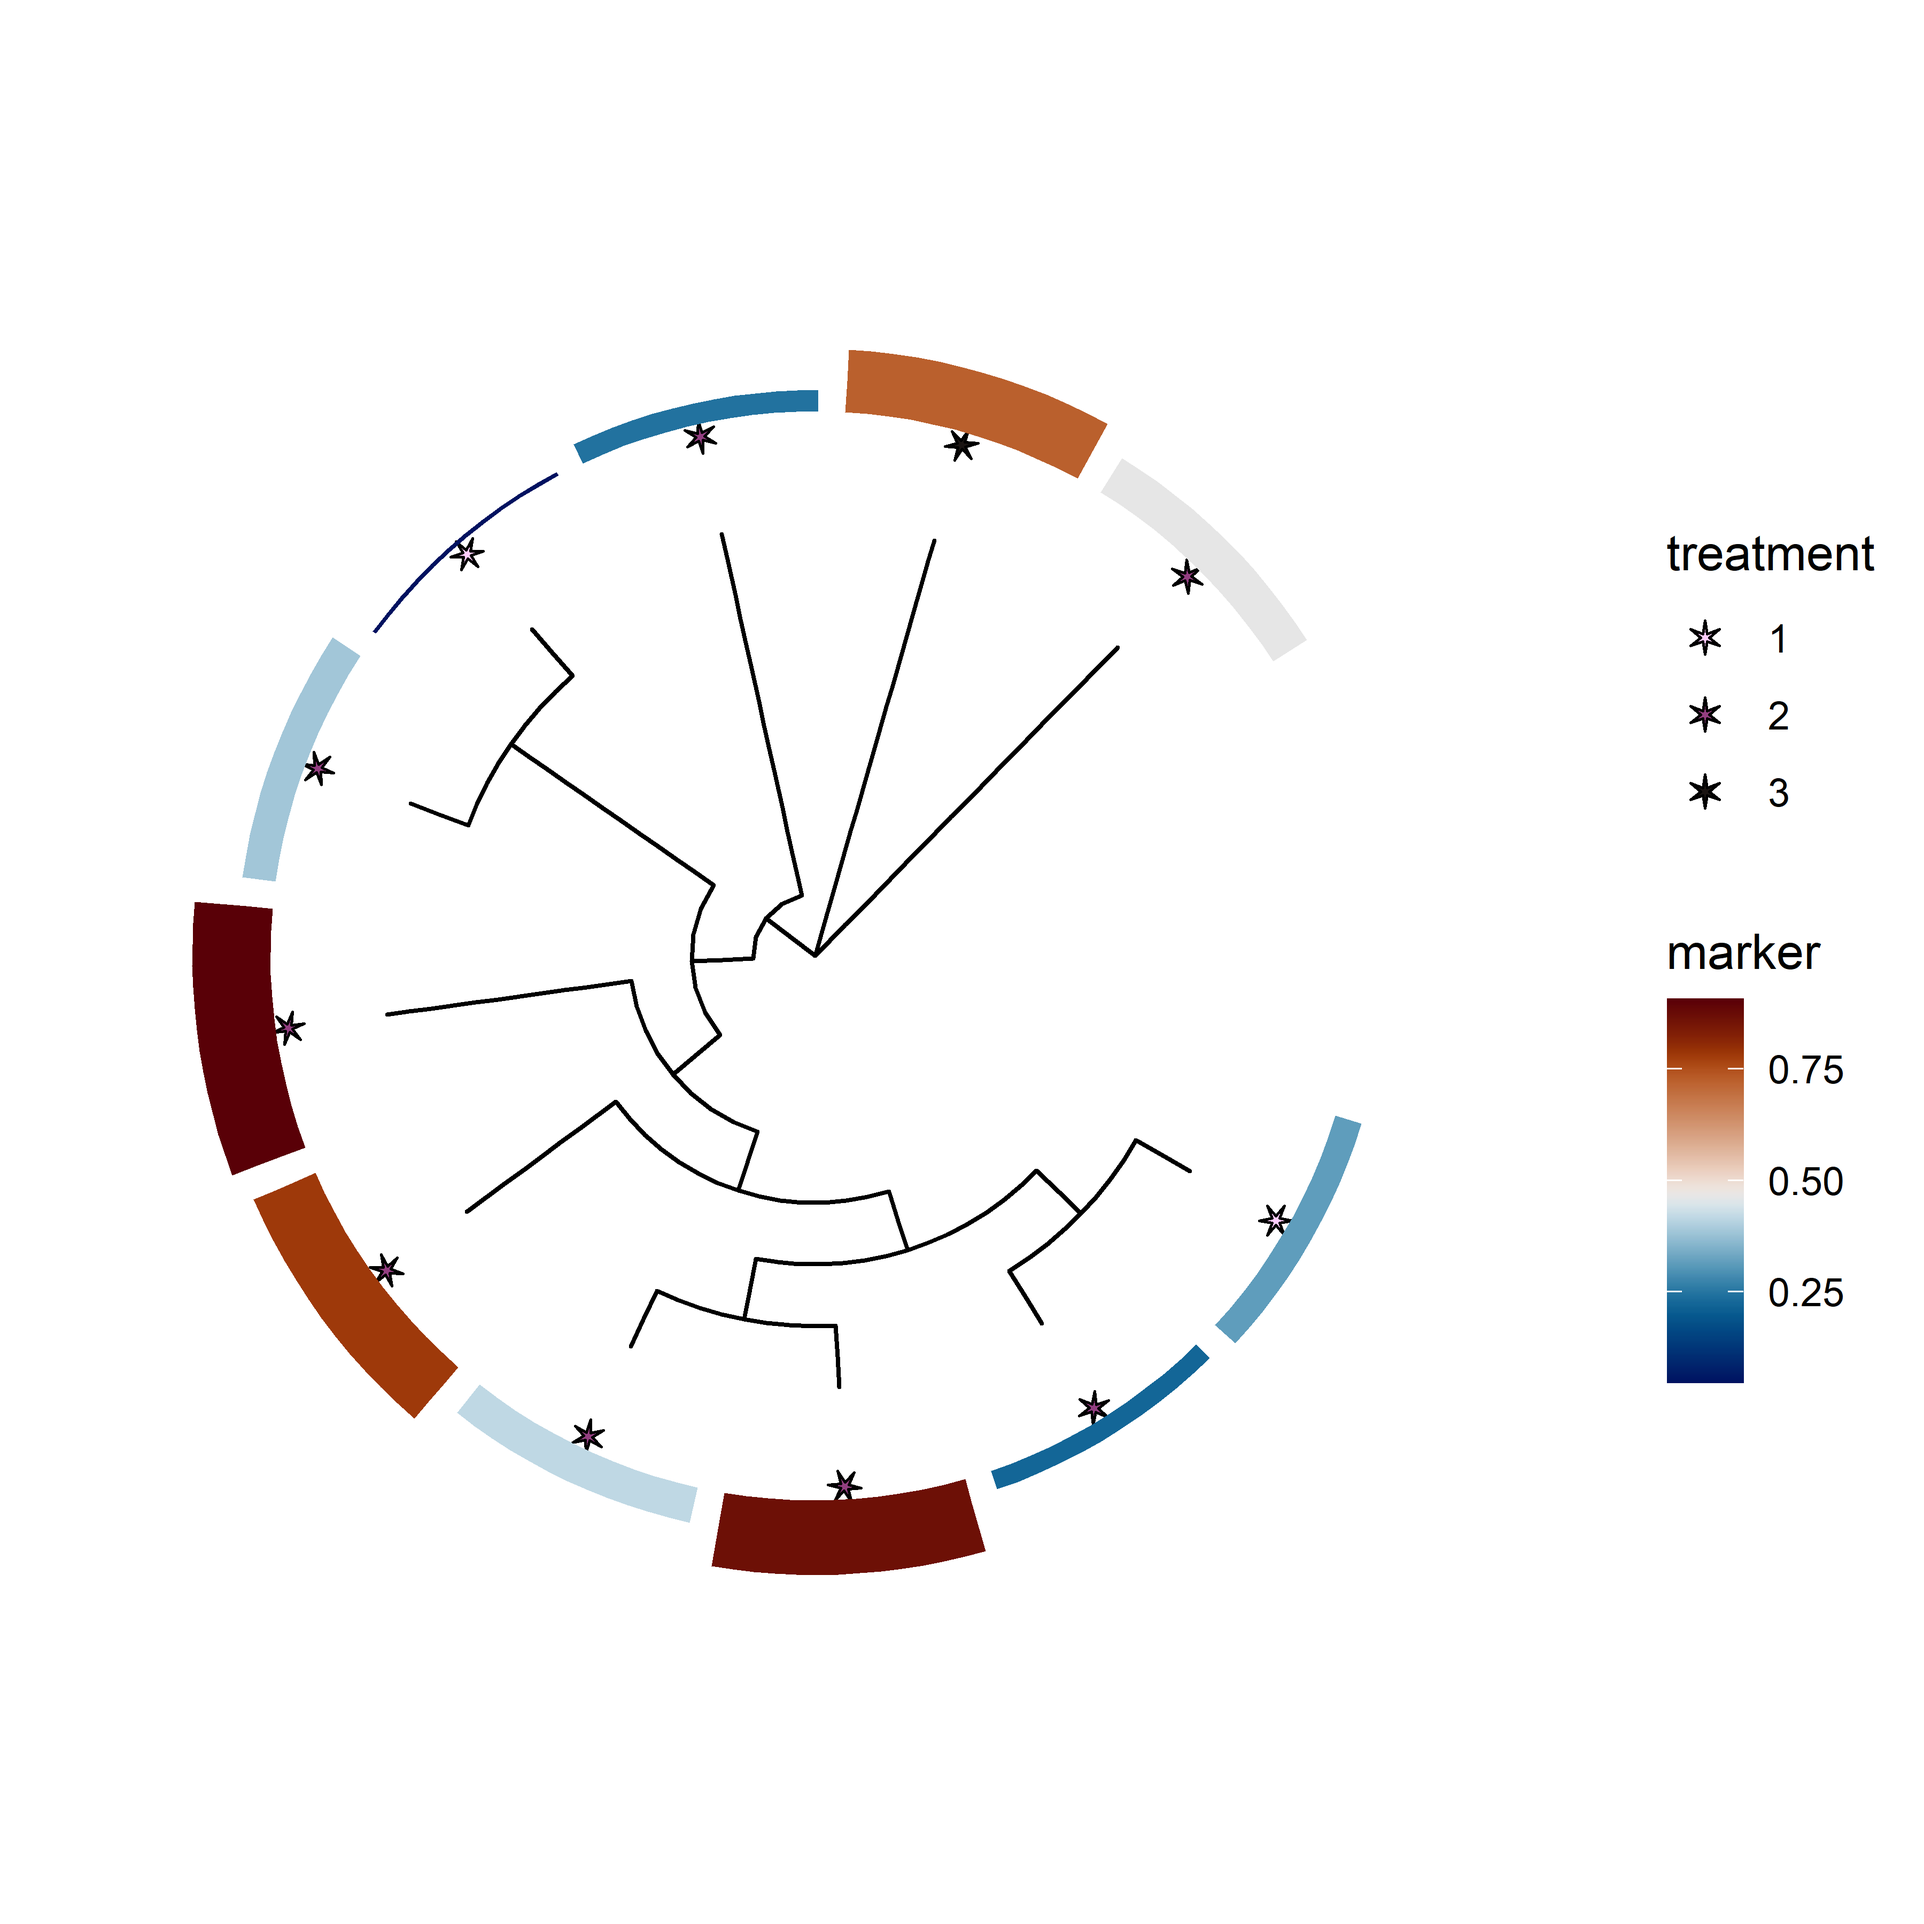
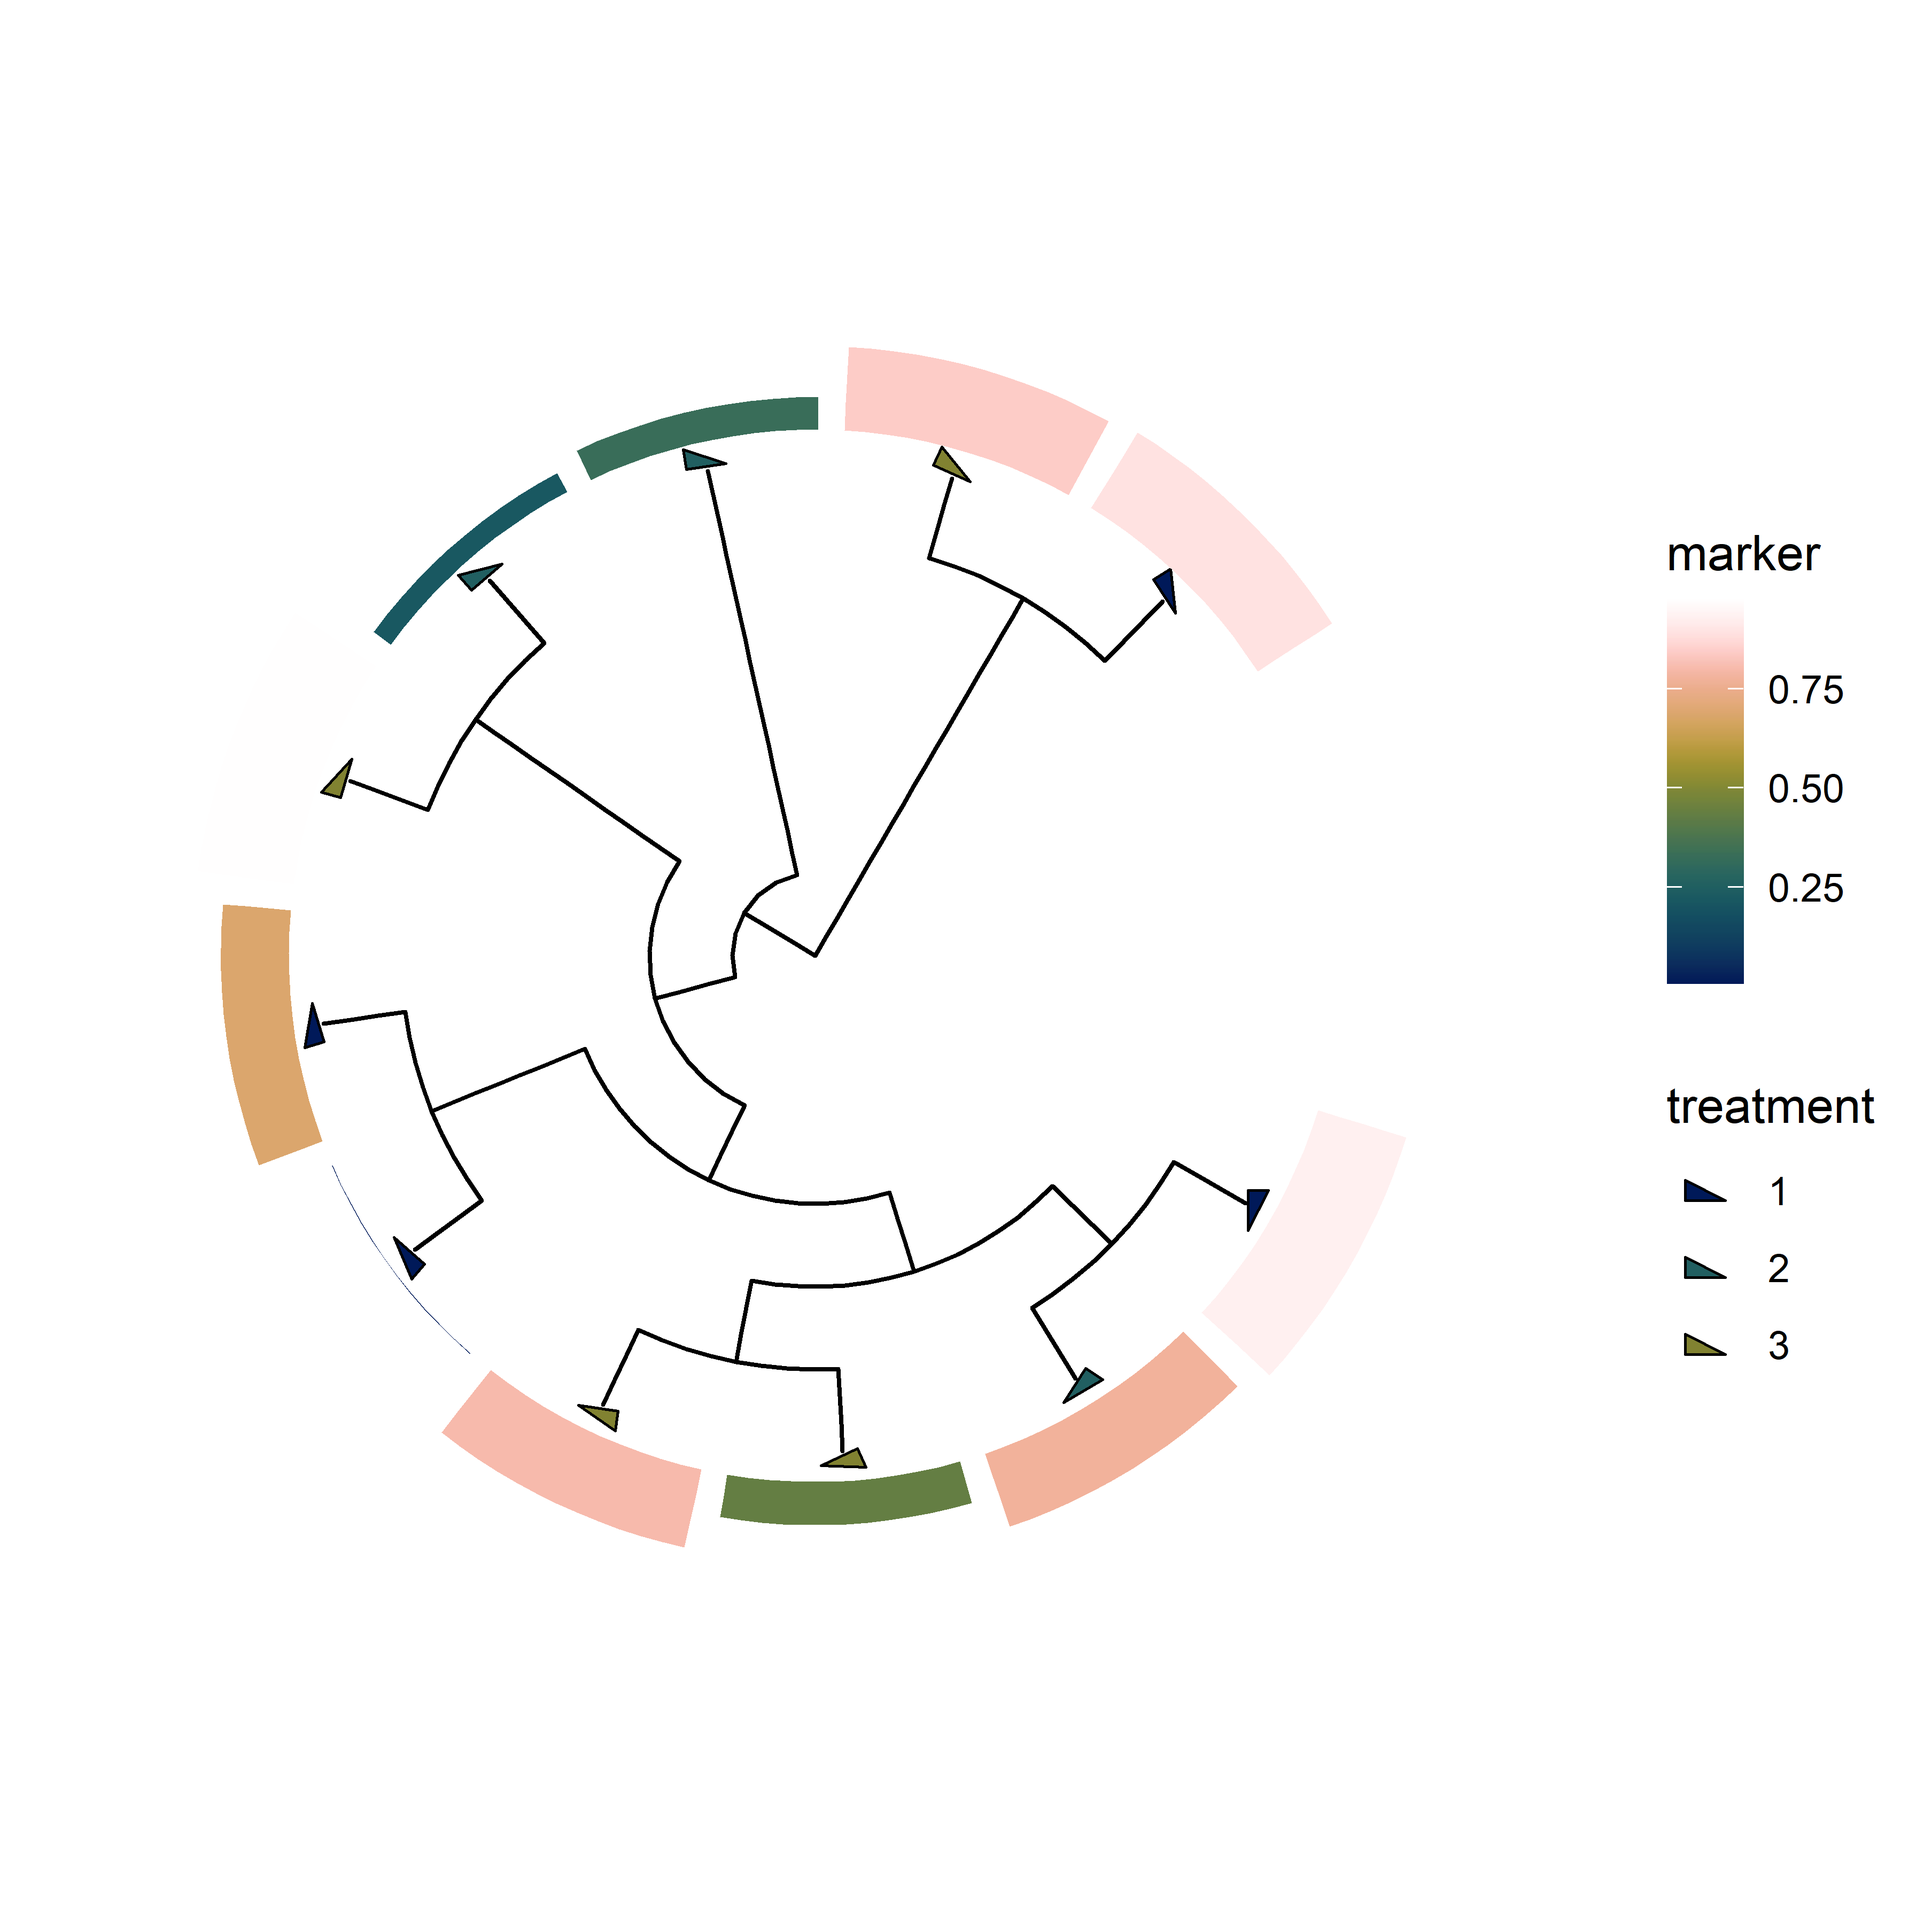
readme

diff --git a/README.md b/README.md
@@ -9,17 +9,18 @@
 [![CodeFactor](https://www.codefactor.io/repository/github/noriakis/stana/badge)](https://www.codefactor.io/repository/github/noriakis/stana)
 <!-- badges: end -->
 
-Metagenotyping analysis in R. Import and analyse, plot output of the
-software like [MIDAS](https://github.com/snayfach/MIDAS),
+Metagenotyping analysis in R. Import and analyse, visualize the
+metagenotyping output of the software like
+[MIDAS](https://github.com/snayfach/MIDAS),
 [MIDAS2](https://github.com/czbiohub/MIDAS2), [metaSNV v1, metaSNV
 v2](https://github.com/metasnv-tool/metaSNV) and
-[inStrain](https://github.com/MrOlm/inStrain). Primarly developed for
-`MIDAS` and `MIDAS2`.
+[inStrain](https://github.com/MrOlm/inStrain). In general the
+metagenotyping software produces the allelic count information and gene
+copy number tables and the package utilizes these information to analyze
+the intra-species diversity.
 
-The documentation is available using `pkgdown` at
-<https://noriakis.github.io/software/stana_pkgdown>. The detailed usage
-is available at <https://noriakis.github.io/software/stana>, using
-`bookdown`.
+The detailed usage is available at
+<https://noriakis.github.io/software/stana>, using `bookdown`.
 
 ## Installation
 
@@ -41,15 +42,23 @@ library(stana)
 load(system.file("extdata", "sysdata.rda", package = "stana"))
 
 stana
-#> Type: MIDAS2
-#> Directory: midas2_sample_merge_uhgg
-#> Species number: 1
-#> Filter type: group, number: 1, proportion: 0.8
-#> Loaded SNV table: 1
-#>   Species cleared SNV filter: 1
-#> Loaded gene table (copynum): 1
-#>   Species cleared gene filter: 1
-#> 7.2 Mb
+#> # A stana: MIDAS2
+#> # Database: uhgg
+#> # Loaded directory: midas2_sample_merge_uhgg
+#> # Species number: 1
+#> # Group info (list): Group1/Group2
+#> # Loaded SNV table: 1 ID: 100003
+#> # Loaded gene table: 1 ID: 100003
+#> # Loaded KO table: 1 ID: 100003
+#> # Size:7623472 B
+#> # 
+#> # SNV description
+#> # A tibble: 2 × 3
+#> # Groups:   group [2]
+#>   group  species_id                                               n
+#>   <chr>  <chr>                                                <int>
+#> 1 Group1 d__Bacteria;p__Bacteroidota;c__Bacteroidia;o__Bacte…     4
+#> 2 Group2 d__Bacteria;p__Bacteroidota;c__Bacteroidia;o__Bacte…     7
 getID(stana)
 #> [1] "100003"
 
@@ -57,7 +66,7 @@ getID(stana)
 samples <- getSlot(stana, "snps")[[1]] |> colnames()
 metadata <- data.frame(
     row.names=samples,
-    treatment=sample(1:3, length(samples), replace=TRUE),
+    treatment=factor(sample(1:3, length(samples), replace=TRUE)),
     marker=runif(length(samples))
 )
 
@@ -79,19 +88,24 @@ getFasta(stana)[[1]]
 #> The states are a c g t
 getTree(stana)[[1]]
 #> 
-#> Phylogenetic tree with 11 tips and 9 internal nodes.
+#> Phylogenetic tree with 11 tips and 10 internal nodes.
 #> 
 #> Tip labels:
 #>   ERR1711593, ERR1711594, ERR1711596, ERR1711598, ERR1711603, ERR1711605, ...
 #> 
-#> Unrooted; includes branch lengths.
+#> Rooted; includes branch lengths.
 getTreePlot(stana)[[1]]
 ```
 
 <img src="man/figures/README-unnamed-chunk-2-1.png" width="1800" style="display: block; margin: auto;" />
 
+If the gene copy number table is available like in `MIDAS` series and
+`inStrain`, one can compare the functional implications of these gene
+contents.
+
 ## Interactive inspection
 
 The users can inspect metagenotyping results interactively using Shiny
 based on the variables such as disease conditions
-(`exportInteractive()`).
+(`exportInteractive()`). One can publish the results in the hosting
+services for sharing the research findings.
